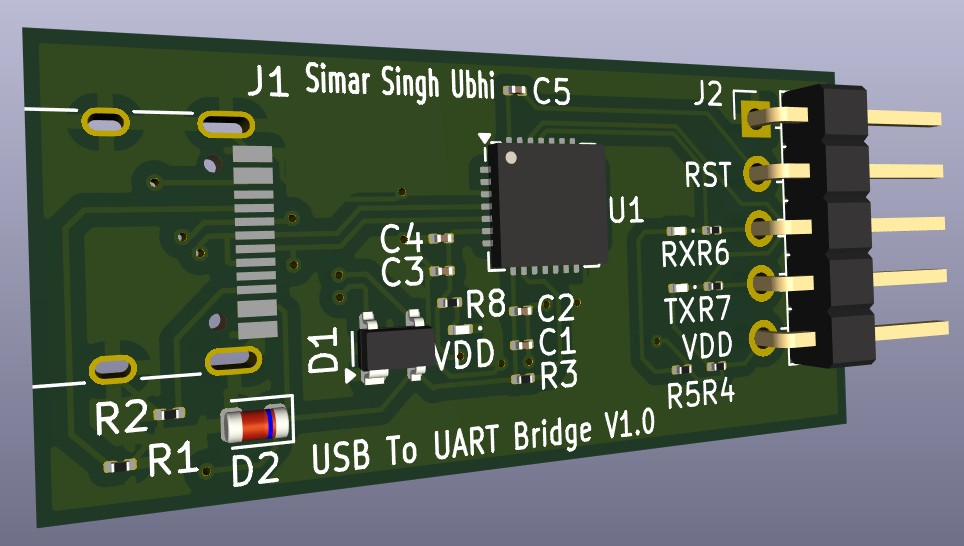
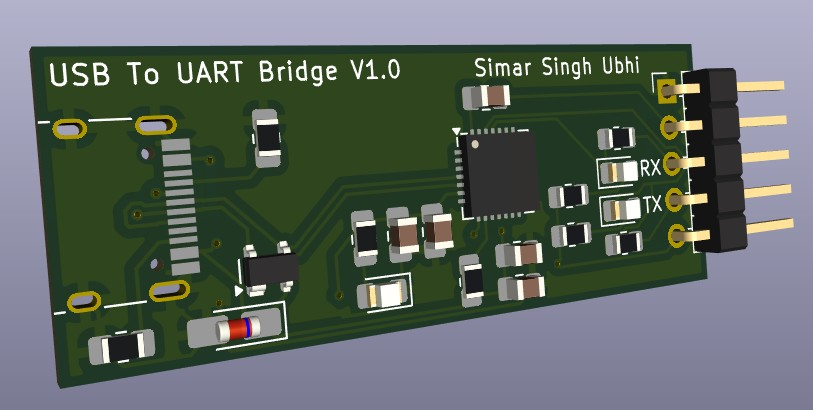
203 size to 805 size

diff --git a/README.md b/README.md
@@ -4,10 +4,10 @@
 
 In order to debug and flash custom microcontroller boards for future projects, I designed a USB to UART bridge with the CP2102N chip in KiCad. Parts are currently in transit and assembly will begin soon!
 
-Total Cost Per Board: ~$3.30<br>
+Total Cost Per Board: ~$4.81<br>
 Equivalent Board On Market: $4.54
 
-Not only is my price per board cheaper than buying a prebuilt board, but it also offers proper overvoltage protection and LED indicators.
+Originally my board was cheaper but after review, I noticed I had accidentally selected 203 (imperial) components which would be too small to solder by hand. They have now been replaced by 805 components. My board is now slightly more expensive than the market but offers led indicators, overvoltage protection, and a clean layout. Given the benefits of the project, I am happy with the outcome.
 
 ## Schematic
 
